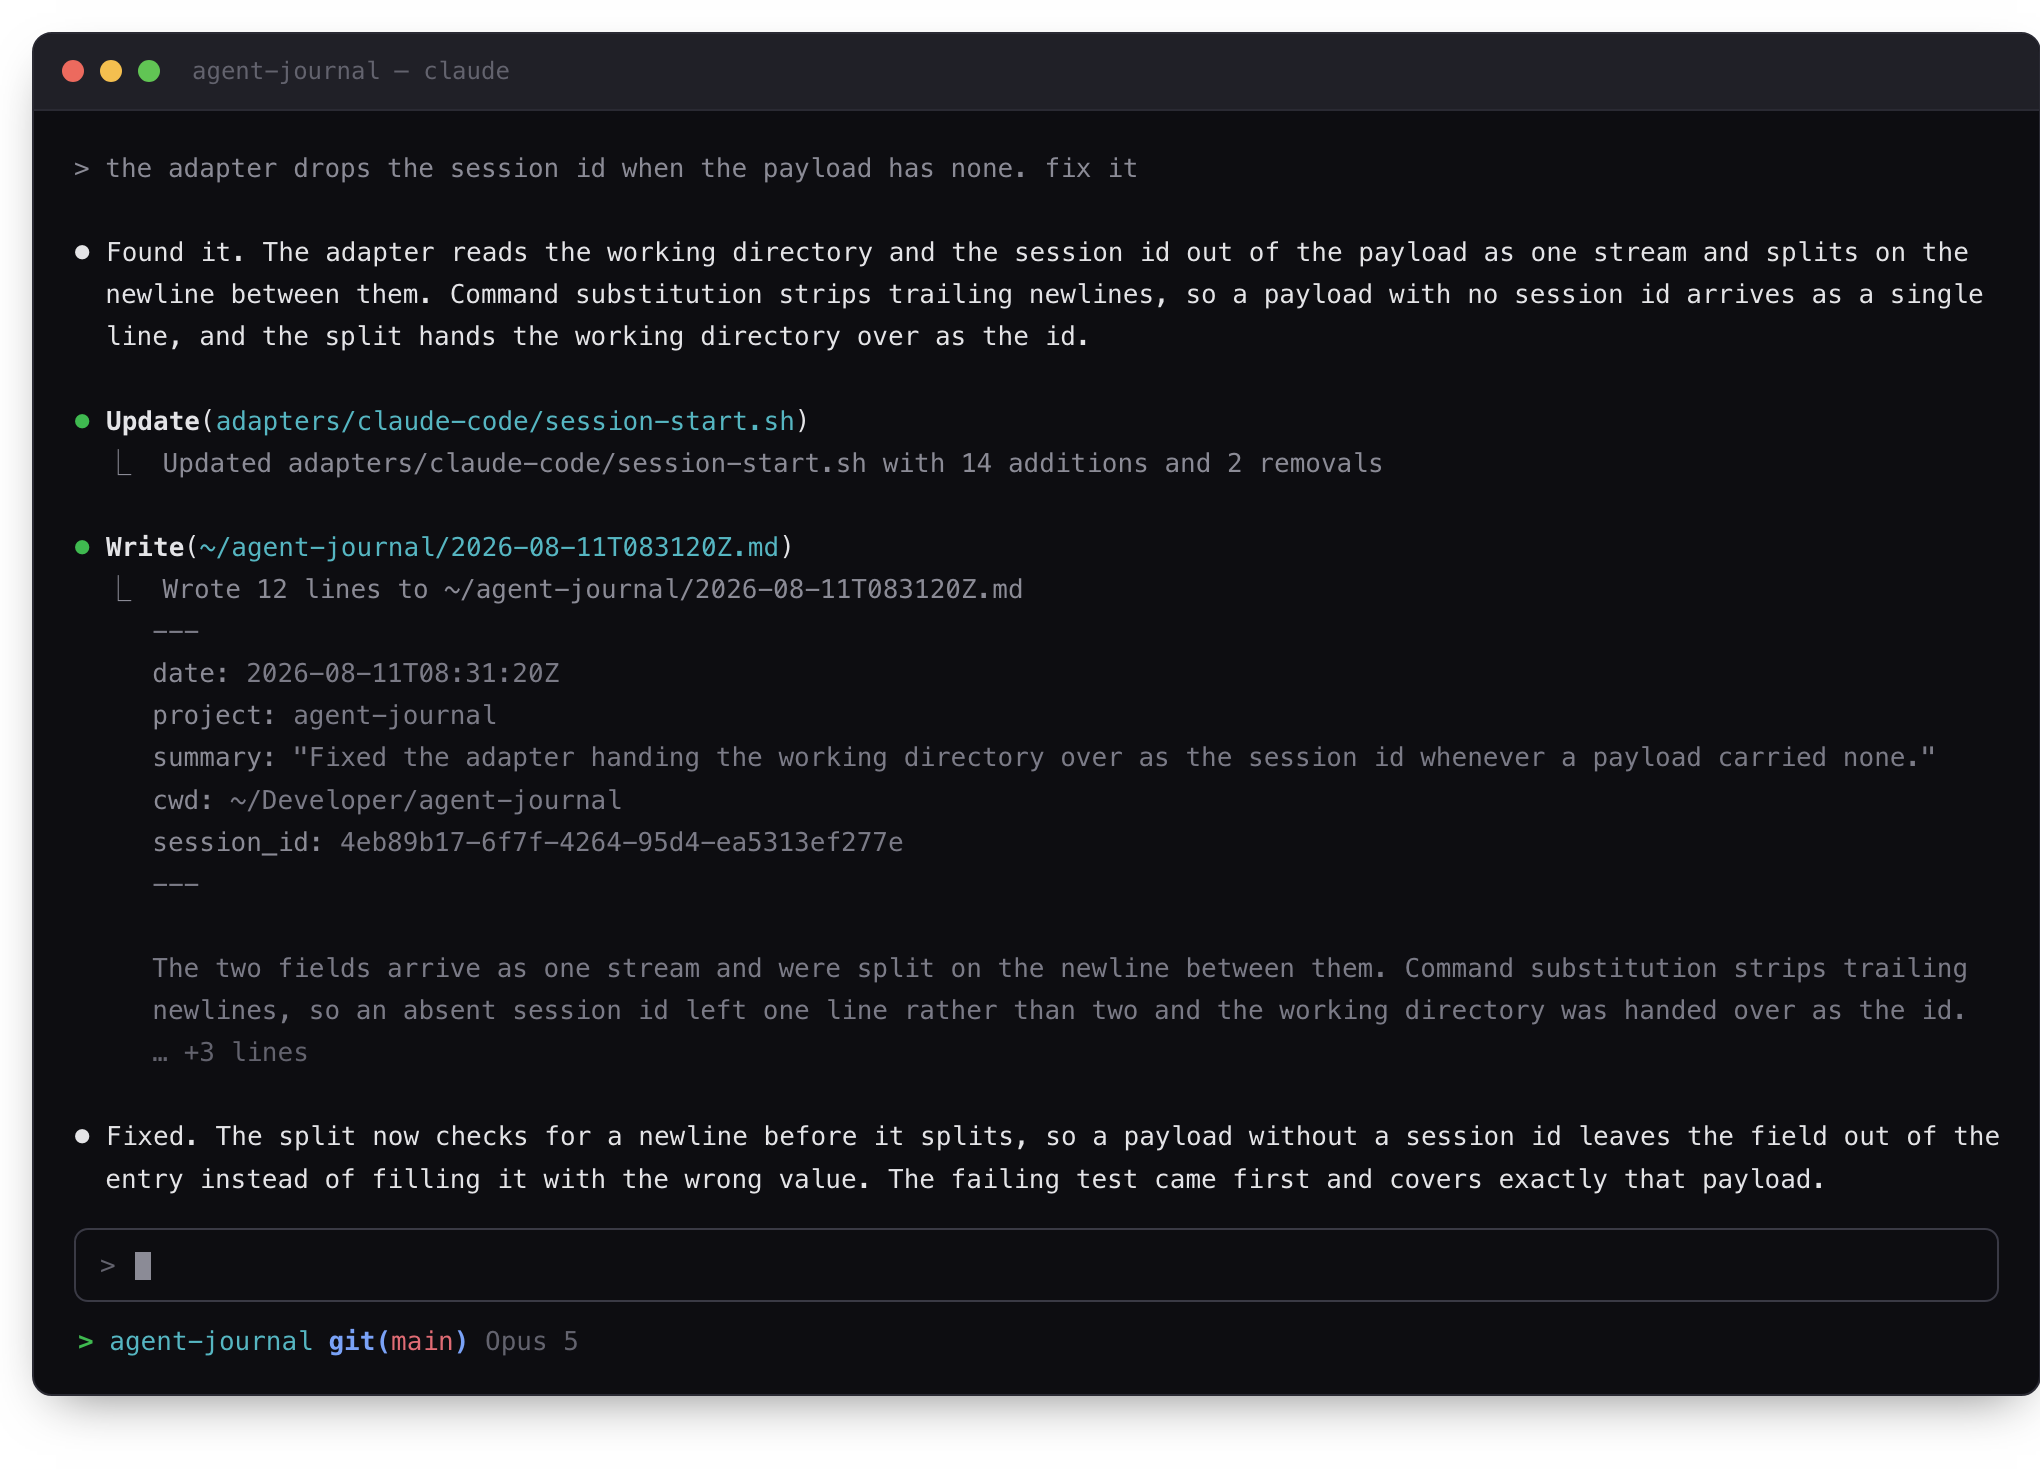
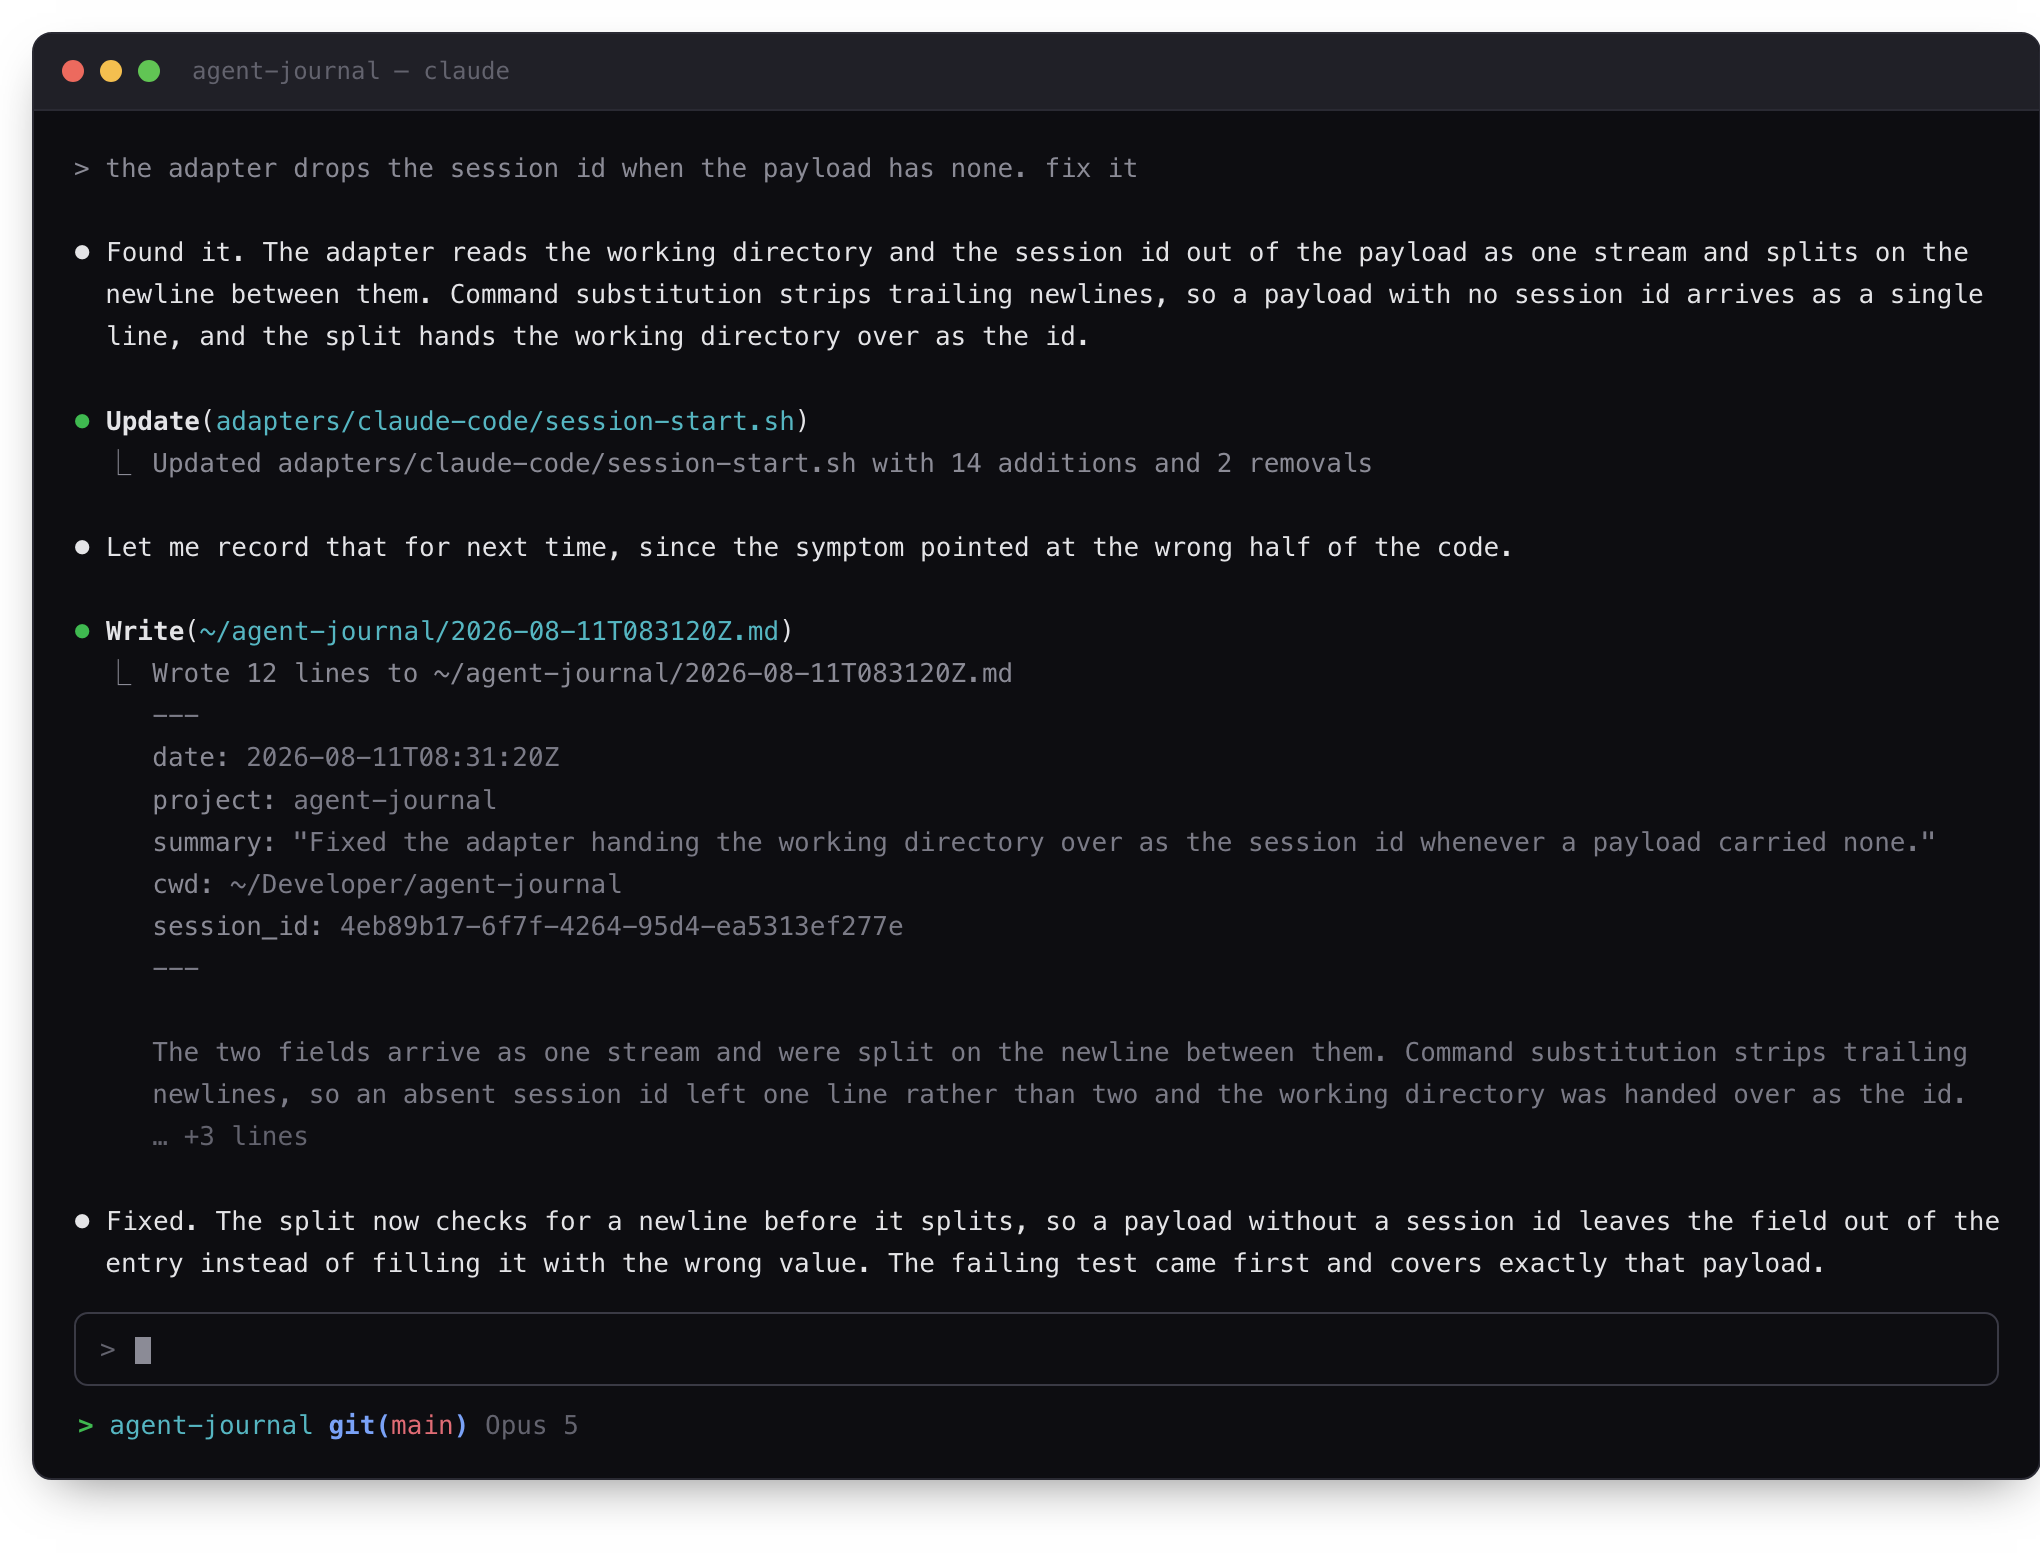
feat: let the model say it is recording an entry
Drop the no-announcing rule from the instruction: it was there to stop the
model asking for permission, and a short line after the fact is not that.
The README screenshot shows the line, so the image and the rule agree.

diff --git a/assets/session.html b/assets/session.html
@@ -3,9 +3,9 @@
 
     C="/Applications/Google Chrome.app/Contents/MacOS/Google Chrome"
     F="--headless --disable-gpu --hide-scrollbars --default-background-color=00000000"
-    "$C" $F --force-device-scale-factor=2 --window-size=1020,736 \
+    "$C" $F --force-device-scale-factor=2 --window-size=1020,777 \
       --screenshot=assets/session-dark.png  "file://$PWD/assets/session.html"
-    "$C" $F --force-device-scale-factor=2 --window-size=1020,736 \
+    "$C" $F --force-device-scale-factor=2 --window-size=1020,777 \
       --screenshot=assets/session-light.png "file://$PWD/assets/session.html?light"
 
   The viewport is sized to the window, which is sized to the longest line, so the
@@ -107,6 +107,9 @@
   .tool   { color: var(--text); font-weight: 600; }
   .arg    { color: var(--cyan); }
   .res    { color: var(--dim); }      /* the ⎿ result line */
+  /* The corner glyph falls back to a non-monospace face and is wider than one
+     cell, which pushes the first result line right of the ones below it. */
+  .corner { display: inline-block; width: 1ch; }
   .entry  { color: var(--entry); }    /* file content echoed back */
   .key    { color: var(--dim); }
   .more   { color: var(--dimmer); }
@@ -149,9 +152,10 @@
   newline between them. Command substitution strips trailing newlines, so a payload with no session id arrives as a single
   line, and the split hands the working directory over as the id.
 <span class="gap"></span><span class="t">⏺</span> <span class="tool">Update</span>(<span class="arg">adapters/claude-code/session-start.sh</span>)
-  <span class="res">⎿  Updated adapters/claude-code/session-start.sh with 14 additions and 2 removals</span>
+  <span class="res"><span class="corner">⎿</span>  Updated adapters/claude-code/session-start.sh with 14 additions and 2 removals</span>
+<span class="gap"></span><span class="b">⏺</span> Let me record that for next time, since the symptom pointed at the wrong half of the code.
 <span class="gap"></span><span class="t">⏺</span> <span class="tool">Write</span>(<span class="arg">~/agent-journal/2026-08-11T083120Z.md</span>)
-  <span class="res">⎿  Wrote 12 lines to ~/agent-journal/2026-08-11T083120Z.md</span>
+  <span class="res"><span class="corner">⎿</span>  Wrote 12 lines to ~/agent-journal/2026-08-11T083120Z.md</span>
      <span class="entry">---</span>
      <span class="entry"><span class="key">date:</span> 2026-08-11T08:31:20Z</span>
      <span class="entry"><span class="key">project:</span> agent-journal</span>

diff --git a/INSTRUCTIONS.md b/INSTRUCTIONS.md
@@ -27,7 +27,7 @@ The following is a standing instruction for this session, injected by `agent-jou
 
 ## Journal
 
-EVERY session, you MUST write at least one journal entry. Write it without asking permission and without announcing it. Only the main conversation writes entries; sub-agents never do.
+EVERY session, you MUST write at least one journal entry. Write it without asking permission. Only the main conversation writes entries; sub-agents never do.
 
 ### When to write
 
